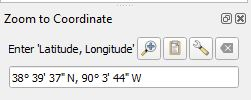
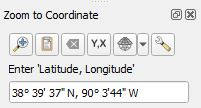
Update documentation

diff --git a/index.html b/index.html
@@ -57,7 +57,16 @@ code {
 <p><img src="images/mapicon.png" width=24 height=24 alt="Show in External Map"> <strong><em>Show in External Map</em></strong> - With this tool, the user can click on the QGIS map which launches an external browser and displays the location on an external map. The left and right mouse buttons can be configured to show different maps. Currently Open Street Map, Google Maps, Google Earth Web, MapQuest, Mapillary, Open Street Map iD Editor, and Bing Maps are supported along with Google Earth if it is installed on the system. The desired map that is displayed can be configured in <strong><em>Settings</em></strong> along with additional user added map services. A temporary marker can be displayed on the map at the location clicked on. To turn this on go to <strong>Settings</strong>. If snapping is enabled, then the clicked location will snap to any close vector vertices according to the parameters set in the snapping options.</p>
 </li>
 <li>
-<p><img src="images/zoomicon.svg" alt="Zoom-to"> <strong><em>Zoom to Coordinate</em></strong> - With this tool, type or paste a coordinate into the text area and hit <strong>Enter</strong>. QGIS centers the map on the coordinate, highlights the location and creates a temporary marker at the location. Pressing the <img src="doc/zoomtool.jpg" alt="Zoom button"> also causes QGIS to zoom to that location. For formats that represent a region rather than a point such as <strong>Geohash</strong>, <strong>H3</strong>, <strong>Maindenhead</strong>, and <strong>Plus Codes (Open Location Code)</strong> it displays the region area along with the center point. The marker can be removed with the <img src="doc/cleartool.jpg" alt="Clear marker"> button. Pressing <img src="doc/pastecoord.jpg" alt="paste coordinate"> <strong>Paste Coordinate from Clipboard</strong> button pastes the contents of the clipboard into the text area. If the default <strong>WGS 84</strong> (EPSG:4326 - latitude/longitude) coordinate system is specified, <strong><em>Zoom to Coordinate</em></strong> can interpret <strong>decimal degrees</strong>, <strong>DMS</strong>, <strong>WKT POINT</strong>, <strong>Standard UTM</strong>, <strong>UPS</strong>, <strong>MGRS</strong>, <strong>GEOREF</strong>, <strong>Plus Codes (Open Location Code)</strong>, or <strong>GeoJSON</strong> coordinates. It can also zoom to <strong>Geohash</strong> coordinates, amateur radio <strong>Maidenhead</strong> grid coordinates, <strong>H3</strong> geohash coordinates (if the H3 library is installed), or any other projection when configured in <strong>Settings</strong>. The <strong><em>Coordinate Order</em></strong> in <strong><em>Settings</em></strong> dictates whether the order is latitude followed by longitude (Y,X) or longitude followed by latitude (X,Y). By default the order is "Latitude, Longitude", the format used by Google Maps. The behavior and coordinate types that are interpreted can be configured by pressing the <strong>Settings</strong> button <img src="doc/settings.png">.<br /><div style="text-align:center"><img src="doc/zoomto.jpg" alt="Zoom to Latitude, Longitude"></div><br />The following are acceptable coordinate formats when the <strong><em>Settings</em></strong> <strong>Zoom to Coordinate Type</strong> is set to <strong><em>WGS 84 (Latitude &amp; Longitude)</em></strong>. When the letters "N, S, E, W" are used, then the coordinate order is not important. These letters can be used before or after the coordinates. As long as the coordinate is understandable, punctuation, spaces, and &deg; ' " are optional. In these examples "d" represents degree digits, "m" minutes, and "s" seconds. Here are some example input formats:</p>
+<p><img src="images/zoomicon.svg" alt="Zoom-to"> <strong><em>Zoom to Coordinate</em></strong> - With this tool, type or paste a coordinate into the text area and hit <strong>Enter</strong>. QGIS centers the map on the coordinate, highlights and creates a temporary marker at the location. For formats that represent a region rather than a point such as <strong>Geohash</strong>, <strong>H3</strong>, <strong>Maindenhead</strong>, and <strong>Plus Codes (Open Location Code)</strong>, the region area is displayed along with the center point. If the default <strong>WGS 84</strong> (EPSG:4326 - latitude/longitude) coordinate system is specified, <strong><em>Zoom to Coordinate</em></strong> can interpret <strong>decimal degrees</strong>, <strong>DMS</strong>, <strong>WKT POINT</strong>, <strong>Standard UTM</strong>, <strong>UPS</strong>, <strong>MGRS</strong>, <strong>GEOREF</strong>, <strong>Plus Codes (Open Location Code)</strong>, or <strong>GeoJSON</strong> coordinates. It can also zoom to <strong>Geohash</strong> coordinates, amateur radio <strong>Maidenhead</strong> grid coordinates, <strong>H3</strong> geohash coordinates (if the H3 library is installed), or any other projection when configured in <strong>Settings</strong> or by the <strong>Select CRS Mode</strong> button. The <strong><em>Coordinate Order</em></strong> in <strong><em>Settings</em></strong> or <strong>Toggle Coordinate Order</strong> button below dictates whether the order is latitude followed by longitude (Y,X) or longitude followed by latitude (X,Y). The following actions can also be taken from the <strong><em>Zoom To</em></strong> dialog:</p>
+<ul>
+<li><img src="doc/zoomtool.jpg" alt="Zoom button"> Pressing this button causes QGIS to zoom to the location. </li>
+<li><img src="doc/pastecoord.jpg" alt="paste coordinate"> This pastes the contents of the clipboard into the text area. </li>
+<li><img src="doc/cleartool.jpg" alt="Clear marker"> The marker is removed with this button.</li>
+<li><img src="doc/xyzoom.jpg"> This toggles the coordinate order without having to go into <strong>Settings</strong>.</li>
+<li><img src="doc/zoomcrs.jpg"> This specifies the type of coordinate that is to be interpreted without having to go into <strong>Settings</strong>.</li>
+<li><img src="doc/settings.png"> The behavior and coordinate types that are interpreted can be configured by pressing the <strong>Settings</strong> button.<br /><div style="text-align:center"><img src="doc/zoomto.jpg" alt="Zoom to Latitude, Longitude"></div></li>
+</ul>
+<p>The following are acceptable coordinate formats when the <strong><em>Settings</em></strong> <strong>Zoom to Coordinate Type</strong> is set to <strong><em>WGS 84 (Latitude &amp; Longitude)</em></strong>. When the letters "N, S, E, W" are used, then the coordinate order is not important. These letters can be used before or after the coordinates. As long as the coordinate is understandable, punctuation, spaces, and &deg; ' " are optional. In these examples "d" represents degree digits, "m" minutes, and "s" seconds. Here are some example input formats:</p>
 <ul>
 <li>Decimal Degree: 38.959390&deg;, -95.265483&deg; / 38.959390, -95.265483 / 38.959390N, 95.265483 W (d.dddd, d.dddd)</li>
 <li>Degree, Minute: 38&deg; 57.5634'N 95&deg; 15.92890'W (d m.mmmm, d m.mmmm)</li>

diff --git a/readme.md b/readme.md
@@ -20,7 +20,15 @@ A number of the conversions can be accessed as field calculator functions. When 
   
 * <img src="images/mapicon.png" width=24 height=24 alt="Show in External Map"> ***Show in External Map*** - With this tool, the user can click on the QGIS map which launches an external browser and displays the location on an external map. The left and right mouse buttons can be configured to show different maps. Currently Open Street Map, Google Maps, Google Earth Web, MapQuest, Mapillary, Open Street Map iD Editor, and Bing Maps are supported along with Google Earth if it is installed on the system. The desired map that is displayed can be configured in ***Settings*** along with additional user added map services. A temporary marker can be displayed on the map at the location clicked on. To turn this on go to **Settings**. If snapping is enabled, then the clicked location will snap to any close vector vertices according to the parameters set in the snapping options.
 
-* <img src="images/zoomicon.svg" alt="Zoom-to"> ***Zoom to Coordinate*** - With this tool, type or paste a coordinate into the text area and hit **Enter**. QGIS centers the map on the coordinate, highlights the location and creates a temporary marker at the location. Pressing the <img src="doc/zoomtool.jpg" alt="Zoom button"> also causes QGIS to zoom to that location. For formats that represent a region rather than a point such as **Geohash**, **H3**, **Maindenhead**, and **Plus Codes (Open Location Code)** it displays the region area along with the center point. The marker can be removed with the <img src="doc/cleartool.jpg" alt="Clear marker"> button. Pressing <img src="doc/pastecoord.jpg" alt="paste coordinate"> **Paste Coordinate from Clipboard** button pastes the contents of the clipboard into the text area. If the default **WGS 84** (EPSG:4326 - latitude/longitude) coordinate system is specified, ***Zoom to Coordinate*** can interpret **decimal degrees**, **DMS**, **WKT POINT**, **Standard UTM**, **UPS**, **MGRS**, **GEOREF**, **Plus Codes (Open Location Code)**, or **GeoJSON** coordinates. It can also zoom to **Geohash** coordinates, amateur radio **Maidenhead** grid coordinates, **H3** geohash coordinates (if the H3 library is installed), or any other projection when configured in **Settings**. The ***Coordinate Order*** in ***Settings*** dictates whether the order is latitude followed by longitude (Y,X) or longitude followed by latitude (X,Y). By default the order is "Latitude, Longitude", the format used by Google Maps. The behavior and coordinate types that are interpreted can be configured by pressing the **Settings** button <img src="doc/settings.png">.<br /><div style="text-align:center"><img src="doc/zoomto.jpg" alt="Zoom to Latitude, Longitude"></div><br />The following are acceptable coordinate formats when the ***Settings*** **Zoom to Coordinate Type** is set to ***WGS 84 (Latitude & Longitude)***. When the letters "N, S, E, W" are used, then the coordinate order is not important. These letters can be used before or after the coordinates. As long as the coordinate is understandable, punctuation, spaces, and &deg; ' " are optional. In these examples "d" represents degree digits, "m" minutes, and "s" seconds. Here are some example input formats:
+* <img src="images/zoomicon.svg" alt="Zoom-to"> ***Zoom to Coordinate*** - With this tool, type or paste a coordinate into the text area and hit **Enter**. QGIS centers the map on the coordinate, highlights and creates a temporary marker at the location. For formats that represent a region rather than a point such as **Geohash**, **H3**, **Maindenhead**, and **Plus Codes (Open Location Code)**, the region area is displayed along with the center point. If the default **WGS 84** (EPSG:4326 - latitude/longitude) coordinate system is specified, ***Zoom to Coordinate*** can interpret **decimal degrees**, **DMS**, **WKT POINT**, **Standard UTM**, **UPS**, **MGRS**, **GEOREF**, **Plus Codes (Open Location Code)**, or **GeoJSON** coordinates. It can also zoom to **Geohash** coordinates, amateur radio **Maidenhead** grid coordinates, **H3** geohash coordinates (if the H3 library is installed), or any other projection when configured in **Settings** or by the **Select CRS Mode** button. The ***Coordinate Order*** in ***Settings*** or **Toggle Coordinate Order** button below dictates whether the order is latitude followed by longitude (Y,X) or longitude followed by latitude (X,Y). The following actions can also be taken from the ***Zoom To*** dialog:
+    * <img src="doc/zoomtool.jpg" alt="Zoom button"> Pressing this button causes QGIS to zoom to the location. 
+    * <img src="doc/pastecoord.jpg" alt="paste coordinate"> This pastes the contents of the clipboard into the text area. 
+    * <img src="doc/cleartool.jpg" alt="Clear marker"> The marker is removed with this button.
+    * <img src="doc/xyzoom.jpg"> This toggles the coordinate order without having to go into **Settings**.
+    * <img src="doc/zoomcrs.jpg"> This specifies the type of coordinate that is to be interpreted without having to go into **Settings**.
+    * <img src="doc/settings.png"> The behavior and coordinate types that are interpreted can be configured by pressing the **Settings** button.<br /><div style="text-align:center"><img src="doc/zoomto.jpg" alt="Zoom to Latitude, Longitude"></div>
+    
+    The following are acceptable coordinate formats when the ***Settings*** **Zoom to Coordinate Type** is set to ***WGS 84 (Latitude & Longitude)***. When the letters "N, S, E, W" are used, then the coordinate order is not important. These letters can be used before or after the coordinates. As long as the coordinate is understandable, punctuation, spaces, and &deg; ' " are optional. In these examples "d" represents degree digits, "m" minutes, and "s" seconds. Here are some example input formats:
 
     * Decimal Degree: 38.959390&deg;, -95.265483&deg; / 38.959390, -95.265483 / 38.959390N, 95.265483 W (d.dddd, d.dddd)
     * Degree, Minute: 38&deg; 57.5634'N 95&deg; 15.92890'W (d m.mmmm, d m.mmmm)
